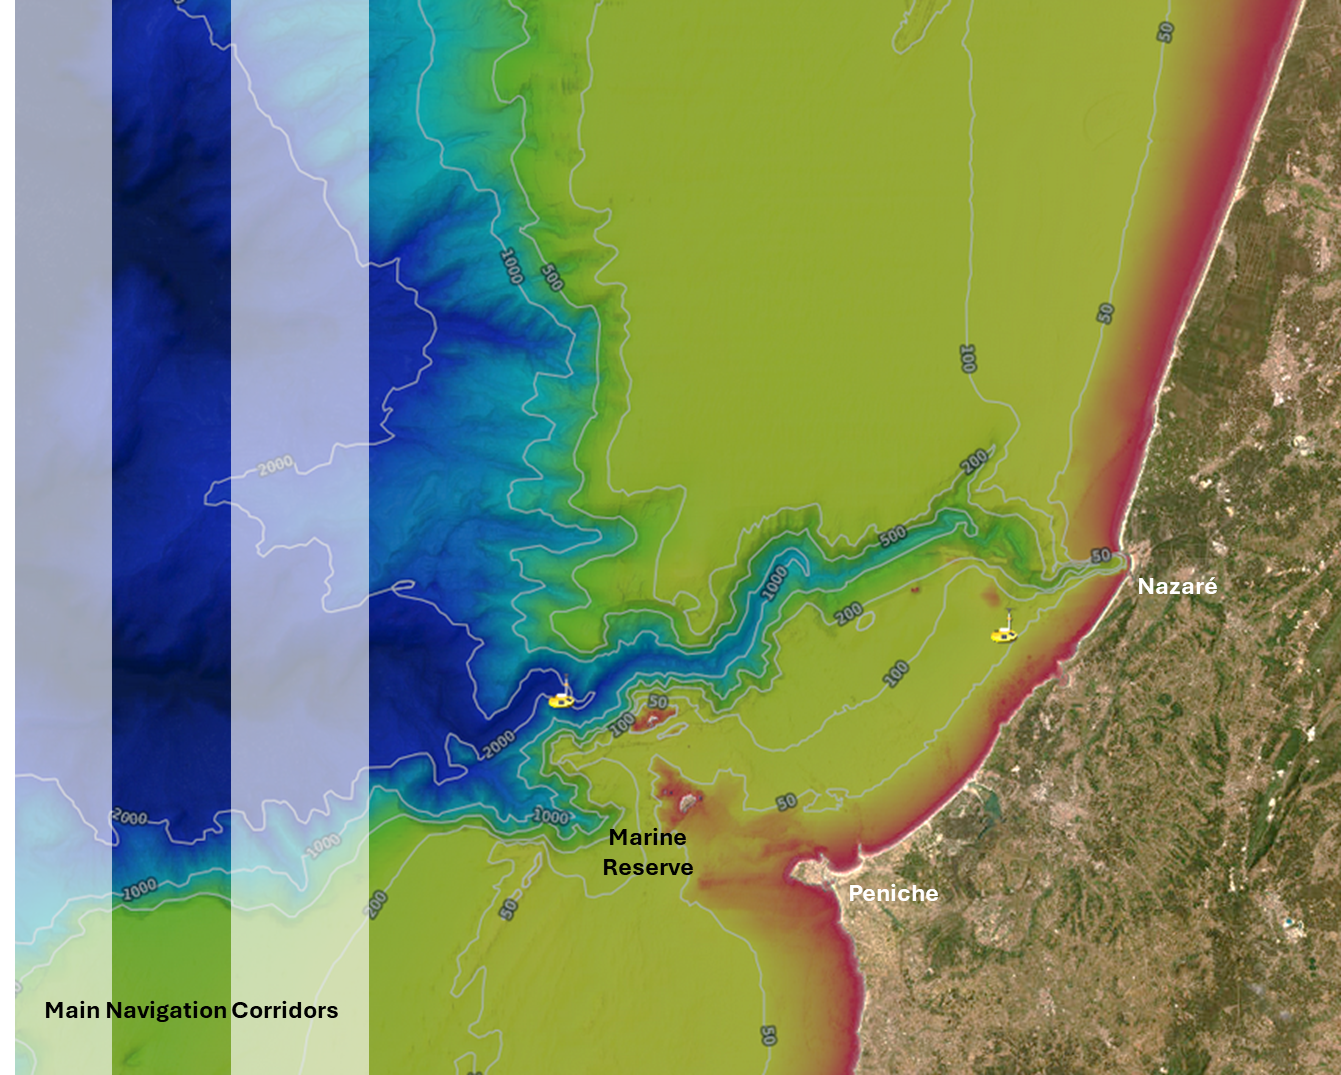
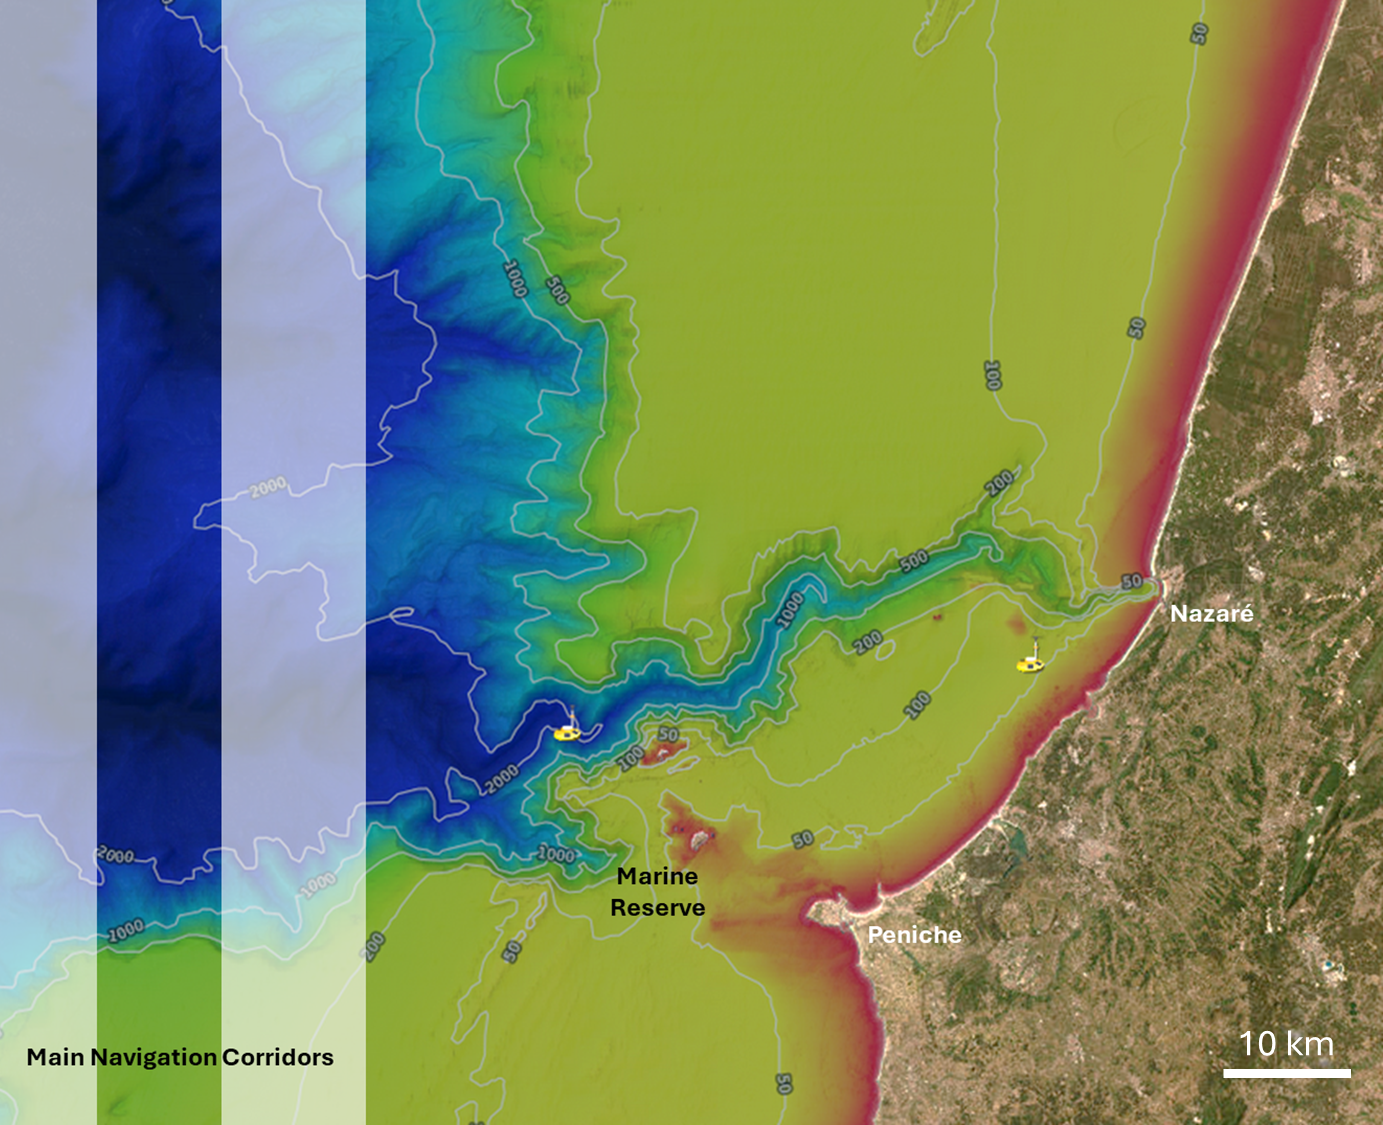
Updates from Overleaf

diff --git a/study_area.tex b/study_area.tex
@@ -8,12 +8,12 @@
   red rectangle.]{\label{fig:po-map}\includegraphics[scale=0.2]{fig/fig_pt_new.png}}
   \hspace{+0.3cm}
   \subfigure[Bathymetry showing the \naz canyon-Berlengas area
-  and its environment.]{\label{fig:domain}\includegraphics[scale=0.195]{fig/area_ripples.png}}
+  and its environment.]{\label{fig:domain}\includegraphics[scale=0.388]{fig/area_ripples.png}}
   \caption{\subref{fig:po-map} \& \subref{fig:domain} show detailed
     views of the study area for \proj off the coast of mainland
     Portugal in October 2024; the white bands show commercial shipping
     lanes and include two buoys part of a coastal observing system for
-    real-time monitoring. The \naz Canyon is a significant feature of
+    real-time monitoring MONIZEE (\textit{Instituto Hidrográfico}). The \naz Canyon is a significant feature of
     this area and a driver for the bio-geophysics of the domain
     \cite{tyler2009europe}.}
   \label{fig:studyarea-1}

diff --git a/results.tex b/results.tex
@@ -110,8 +110,8 @@ ongoing physical transitions in the water column.
   \subfigure[]{\label{fig:scatter_c4}\includegraphics[scale=0.58]{fig/scatter_c4.png}}
   \subfigure[]{\label{fig:scatter_d}\includegraphics[scale=0.58]{fig/scatter_d.png}}
   \subfigure[]{\label{fig:scatter_d4}\includegraphics[scale=0.58]{fig/scatter_d4.png}}
-  \caption{Comparison between in-situ AUV observations
-    (31\textsuperscript{st} October) and model predictions for
+  \caption{Comparison between in-situ AUV temperature ($^{\circ}$C) observations
+    (31\textsuperscript{st} October) and model temperature ($^{\circ}$C) predictions for
     scenarios \textbf{C} \subref{fig:scatter_c}, \textbf{C4}
     (\subref{fig:scatter_c4}), \textbf{D} (\subref{fig:scatter_d}),
     and \textbf{D4} (\subref{fig:scatter_d4}). Shallower layers are
